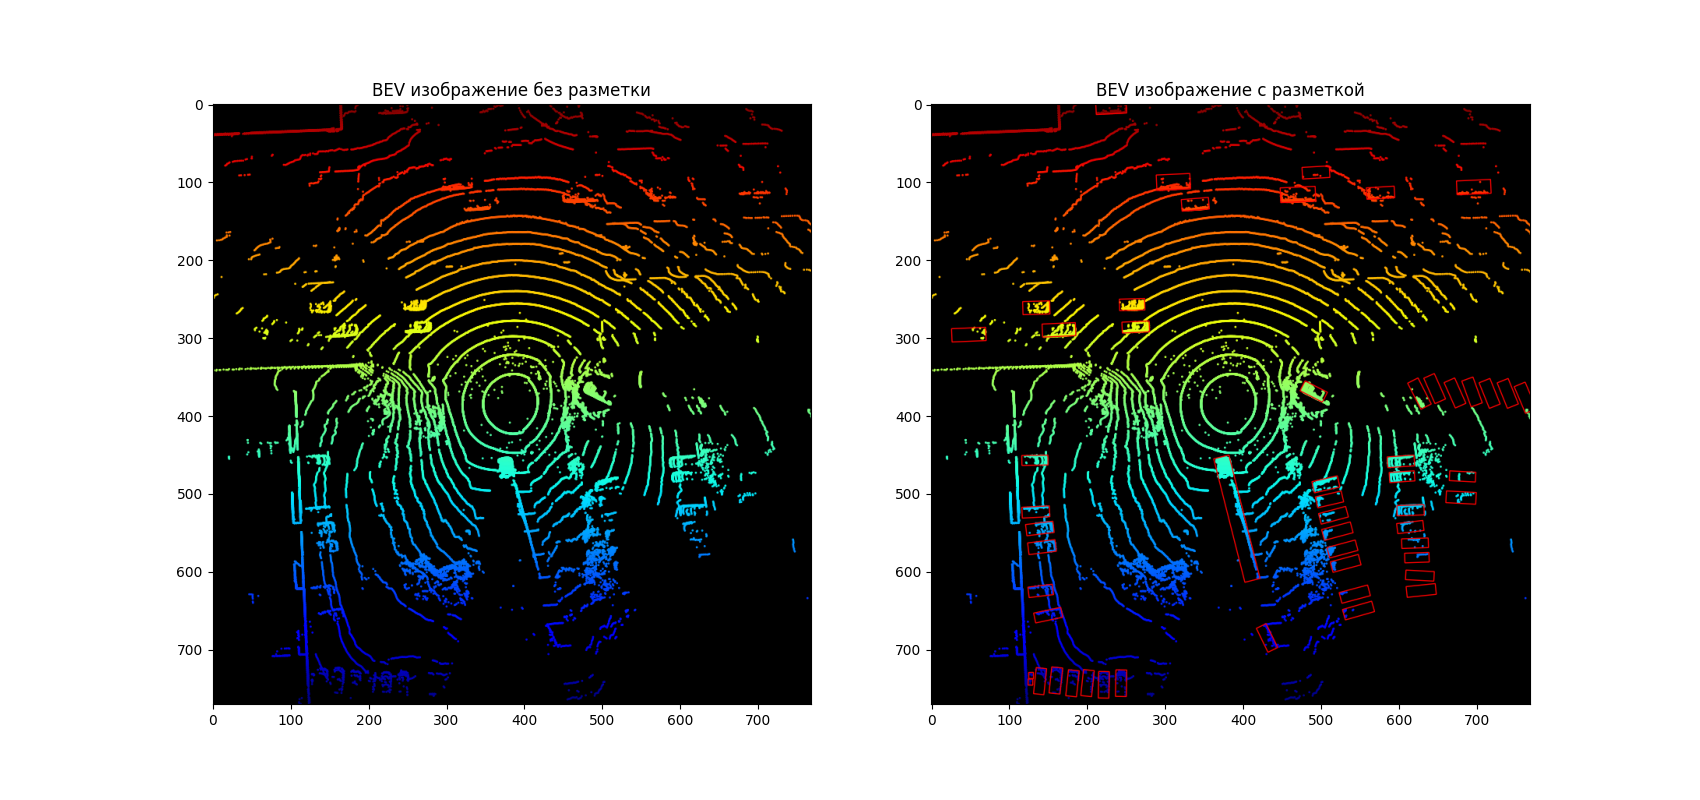
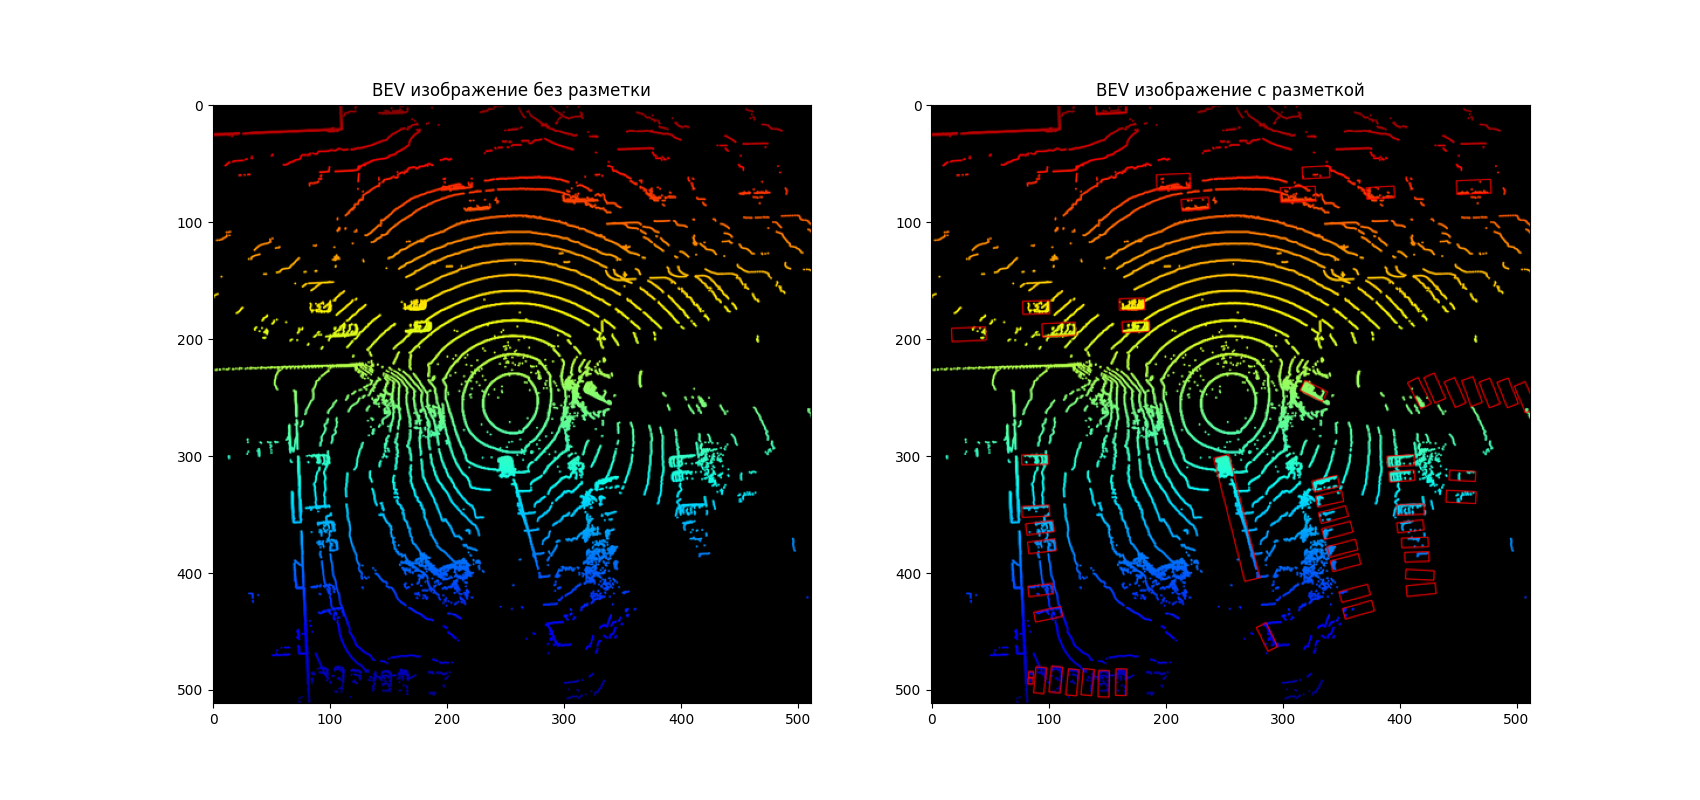
Fix code with bev

diff --git a/gui_lib/bev.py b/gui_lib/bev.py
@@ -1,22 +1,24 @@
 import math
 
 import numpy as np
+from PIL import Image
 from matplotlib import pyplot as plt, patches
 
-from typing import *
-
+from utils.types import *
+from utils.types import make_tuple
 from gui_lib.transformations import boxes_straight2rotated_3d
 
 
-def translate_boxes_lidar2bev(original_boxes: np.array,
-                              scene_size: Tuple[int, int]
-                              ) -> Tuple[np.array, np.array]:
+def translate_boxes_lidar2bev(
+        original_boxes: np.array,
+        scene_size: Tuple[int, int]
+) -> Tuple[np.array, np.array]:
 
     boxes = np.copy(original_boxes)
 
     indexes = np.logical_and(
         np.logical_and(-scene_size[0] < boxes[:, 0], boxes[:, 0] < scene_size[0]),
-        np.logical_and(-scene_size[1] < boxes[:, 1], -scene_size[1] < boxes[:, 1])
+        np.logical_and(-scene_size[1] < boxes[:, 1], boxes[:, 1] < scene_size[1])
     )
     boxes = boxes[indexes]
 
@@ -47,15 +49,69 @@ def translate_boxes_lidar2bev(original_boxes: np.array,
         return np.array([]), np.array([])
 
 
-def create_bev_image(real_shape, points, path_to_save, original_boxes=None):
+def translate_boxes_lidar2bev_image(
+        original_boxes: np.array,
+        scene_size: Tuple[int, int],
+        image_size: Tuple[int, int],
+) -> np.array:
 
-    fb_points = np.logical_and(points[:, 0] > -real_shape[1], points[:, 0] < real_shape[1])
-    lr_points = np.logical_and(points[:, 1] > -real_shape[0], points[:, 1] < real_shape[0])
+    cx = original_boxes[:, 0] + scene_size[0]
+    dx = original_boxes[:, 3]
+
+    cy = original_boxes[:, 1] + scene_size[1]
+    dy = original_boxes[:, 4]
+
+    yaw = original_boxes[:, 6]
+
+    label = original_boxes[:, 7]
+
+    xs, ys = image_size[0] / (scene_size[0] * 2), image_size[1] / (scene_size[1] * 2)
+
+    cx = np.rint(cx * xs).astype(int)
+    cy = np.rint(cy * ys).astype(int)
+    dx = np.rint(dx * xs).astype(int)
+    dy = np.rint(dy * ys).astype(int)
+
+    # for shifting (0, 0) to left top side
+    image_cx = image_size[0] - cy
+    image_cy = image_size[1] - cx
+    image_dx = dy
+    image_dy = dx
+    image_yaw = -(math.radians(90) + yaw)
+
+    return np.stack(
+        (image_cx, image_cy, image_dx, image_dy, image_yaw, label),
+        axis=-1
+    )
+
+
+def create_bev_image(
+        scene_size: Union[int, Tuple[int, int]],
+        image_size: Union[int, Tuple[int, int]],
+        points: np.array,
+        path_to_save: str,
+        original_boxes=None,
+        draw_boxes=False
+) -> Tuple[np.array, np.array]:
+    """
+    :param scene_size: sizes (x,y) or x -> (x,x) of square from which points will be taken
+    :param image_size: size (x,y) or x -> (x,x) of image
+    :param points: lidar points
+    :param path_to_save: path to save bev image
+    :param original_boxes: bounding boxes, if this param provided they will be translated to 2d rot bev
+    :param draw_boxes: draw boxes on image or not
+    :return: pair (indexes, boxes) of boxes that are taken and translated to 2d rot bev
+    """
+    scene_size = make_tuple(scene_size)
+    image_size = make_tuple(image_size)
+
+    fb_points = np.logical_and(-scene_size[1] < points[:, 0], points[:, 0] < scene_size[1])
+    lr_points = np.logical_and(-scene_size[0] < points[:, 1], points[:, 1] < scene_size[0])
 
     truncated_points = points[np.logical_and(fb_points, lr_points), :]
 
-    y_img = truncated_points[:, 0] + real_shape[1]
-    x_img = -truncated_points[:, 1] + real_shape[0]
+    y_img = truncated_points[:, 0] + scene_size[1]
+    x_img = -truncated_points[:, 1] + scene_size[0]
     pixels = truncated_points[:, 0]
 
     fig, ax = plt.subplots(figsize=(2000 / 200, 2000 / 200), dpi=100)
@@ -65,18 +121,23 @@ def create_bev_image(real_shape, points, path_to_save, original_boxes=None):
     ax.axis('scaled')
 
     if original_boxes is not None:
-        idx, translated_boxes = translate_boxes_lidar2bev(original_boxes, real_shape)
-        for poly in translated_boxes:
-            polys = patches.Polygon(poly, closed=True, fill=False, edgecolor='r', linewidth=1)
-            ax.add_patch(polys)
+        boxes_indexes, translated_boxes = translate_boxes_lidar2bev(original_boxes, scene_size)
+        if draw_boxes:
+            for poly in translated_boxes:
+                polys = patches.Polygon(poly, closed=True, fill=False, edgecolor='r', linewidth=1)
+                ax.add_patch(polys)
 
     ax.xaxis.set_visible(False)
     ax.yaxis.set_visible(False)
 
-    plt.xlim([0, real_shape[1] * 2])
-    plt.ylim([0, real_shape[0] * 2])
+    plt.xlim([0, scene_size[1] * 2])
+    plt.ylim([0, scene_size[0] * 2])
     plt.savefig(path_to_save, bbox_inches='tight', pad_inches=0)
     plt.close(fig)
 
+    resized_image = Image.open(path_to_save).resize(image_size, Image.Resampling.LANCZOS)
+    resized_image.save(path_to_save)
+
     if original_boxes is not None:
-        return idx, translated_boxes
+        image_boxes = translate_boxes_lidar2bev_image(original_boxes[boxes_indexes], scene_size, image_size)
+        return boxes_indexes, image_boxes

diff --git a/gui_lib/transformations.py b/gui_lib/transformations.py
@@ -4,6 +4,22 @@ import numpy as np
 from typing import *
 
 
+def translate_points_2d(points: np.array, angle: np.array) -> np.array:
+    """
+
+    :param points: array of shape (b, n, 2)
+        b - batch, n - points to translate, 2 - dimensions (x, y)
+    :param angle: array of size b with angles
+    :return: return array of shape (b, n, 2) in which all points in batch rotated by angle
+    """
+    rot = np.array([
+        [np.cos(angle), np.sin(angle)],
+        [-np.sin(angle), np.cos(angle)]
+    ])
+
+    return points.transpose(2, 0, 1) @ rot.transpose(2, 0, 1)
+
+
 def rotate_points_3d(points: np.array, angle: float, axis: str) -> np.array:
     assert axis in ['x', 'y', 'z']
     if axis == 'z':
@@ -28,15 +44,29 @@ def rotate_points_3d(points: np.array, angle: float, axis: str) -> np.array:
     return points @ rot
 
 
+def boxes_straight2rotated(boxes: np.array) -> np.array:
+    """Rotate 2b boxes
+        :param boxes: np.array with shape (n,5) in format [cx, cy, dx, dy, yaw]
+        :return np.array with 4 rotated points for each box, shape (n,4,2)
+    """
+
+    cx, cy, dx, dy, yaw = boxes[:, :5].transpose(1, 0)
+    dx, dy = dx / 2, dy / 2
+    new_d = translate_points_2d(np.array([[-dx, -dy], [-dx, dy], [dx, dy], [dx, -dy]]), yaw)
+    rotated_boxes = new_d + np.expand_dims(np.array([cx, cy]), 0).transpose(2, 0, 1)
+
+    return rotated_boxes
+
+
 def boxes_straight2rotated_3d(boxes: np.array) -> np.array:
     """Rotate 3d boxes in z dim
-        :param boxes: np.array with shape (n,8) in format [cx, cy, cz, dx, dy, dz, yaw, label]
+        :param boxes: np.array with shape (n,7) in format [cx, cy, cz, dx, dy, dz, yaw]
         :return np.array with 8 rotated points for each box, shape (n,8,3)
     """
 
     rotated_boxes = []
     for box in boxes:
-        cx, cy, cz, dx, dy, dz, yaw = box
+        cx, cy, cz, dx, dy, dz, yaw = box[:7]
         dx, dy, dz = dx / 2, dy / 2, dz / 2
         new_d = rotate_points_3d(np.array([
             [-dx, -dy, -dz],

diff --git a/gui_lib/draw.py b/gui_lib/draw.py
@@ -1,0 +1,19 @@
+import cv2
+from utils import qt_cv2_fix  # noqa
+import numpy as np
+from matplotlib import pyplot as plt
+
+from utils.types import *
+from gui_lib.transformations import boxes_straight2rotated
+
+
+def draw_with_boxes(image: np.array, true_boxes: np.array, color: Tuple[int, int, int] = (100, 100, 100)):
+
+    new_image = np.ascontiguousarray(np.array(image, dtype="uint8"))
+    rot_boxes = boxes_straight2rotated(true_boxes)
+    for box in rot_boxes:
+        for i in range(4):
+            cv2.line(new_image, tuple_to_int(box[i - 1]), tuple_to_int(box[i]), color, thickness=1, lineType=16)
+
+    plt.imshow(new_image)
+    plt.show()

diff --git a/utils/types.py b/utils/types.py
@@ -1,3 +1,13 @@
 from torch import Tensor, FloatTensor, BoolTensor, LongTensor  # noqa
 from typing import Any, Dict, List, Optional, Tuple, Union  # noqa
 from collections import OrderedDict  # noqa
+
+
+def make_tuple(value: Union[object, Tuple[object, object]]):
+    if isinstance(value, tuple):
+        return value
+    return value, value
+
+
+def tuple_to_int(val):
+    return tuple(map(int, val))

diff --git a/datasets/cadc/cadc.py b/datasets/cadc/cadc.py
@@ -4,6 +4,7 @@ import numpy as np
 
 from PIL import Image
 from os.path import join
+
 from utils.types import *
 
 

diff --git a/README.md b/README.md
@@ -43,3 +43,5 @@
 ![alt text](examples/bev.png)
 
 Сгенерировано с помощью [code_examples/draw_bev.py](code_examples/draw_bev.py)
+
+Для преобразования датасета в 2d object detection с поворотом выполняется препроцессинг: 
